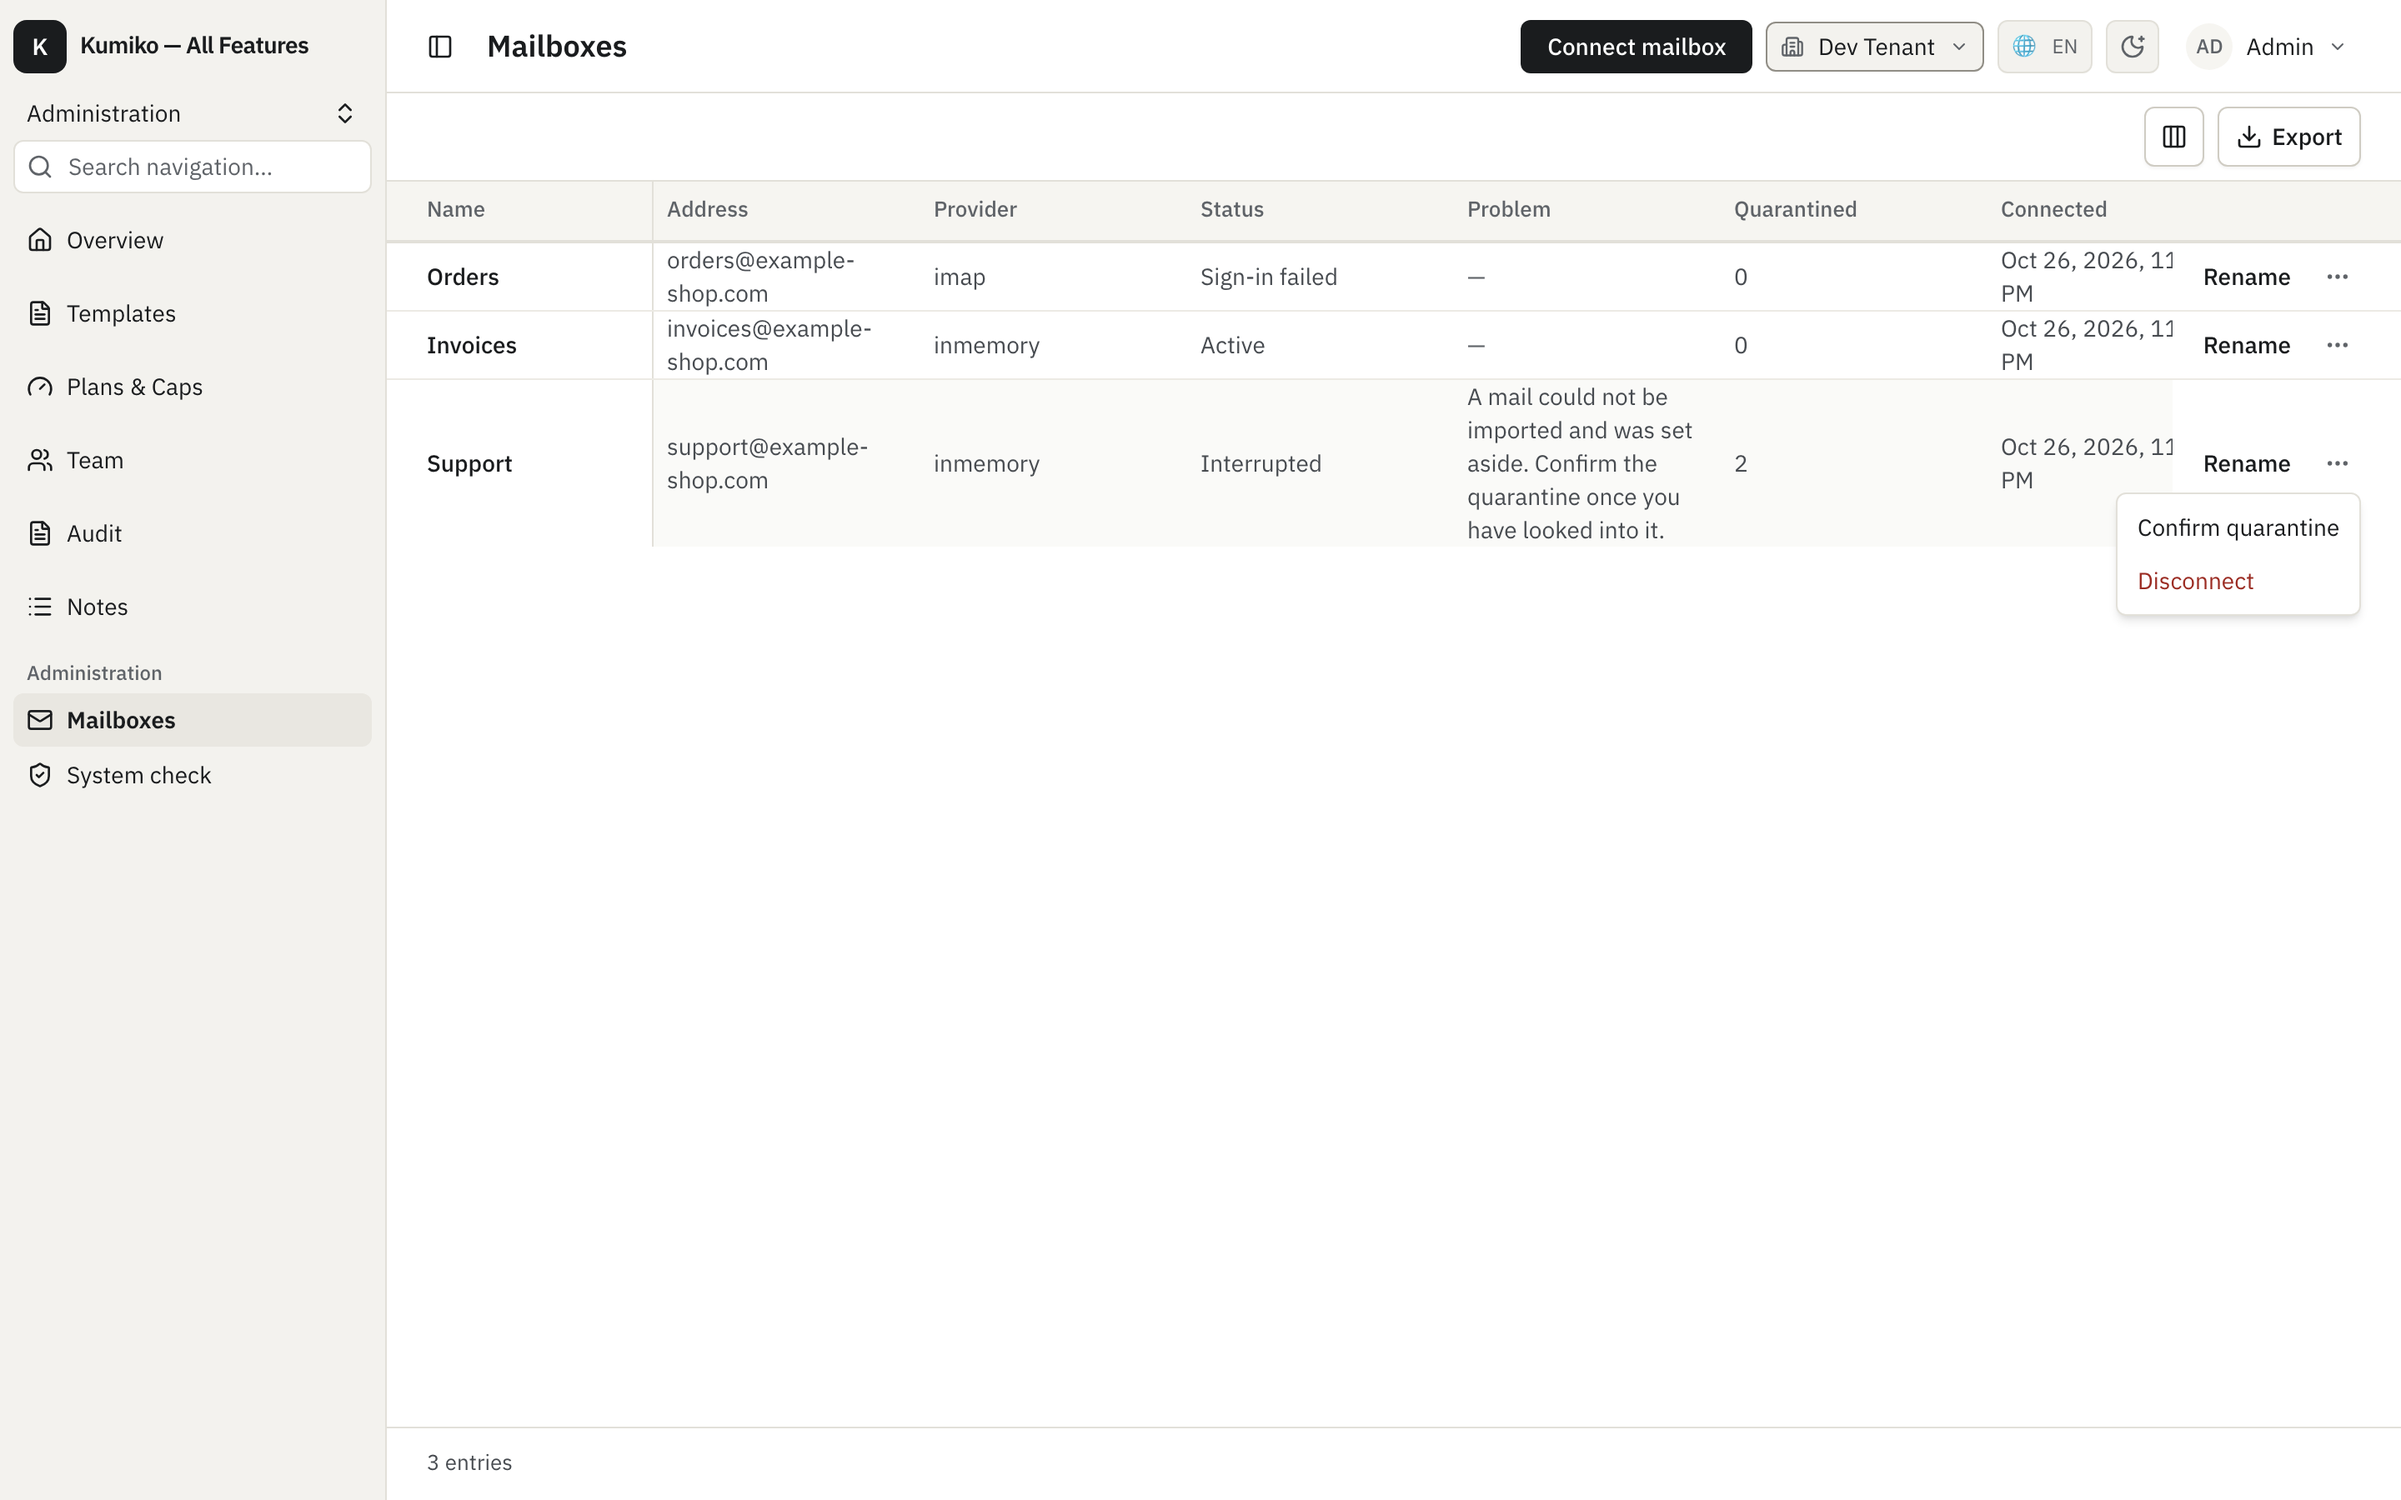
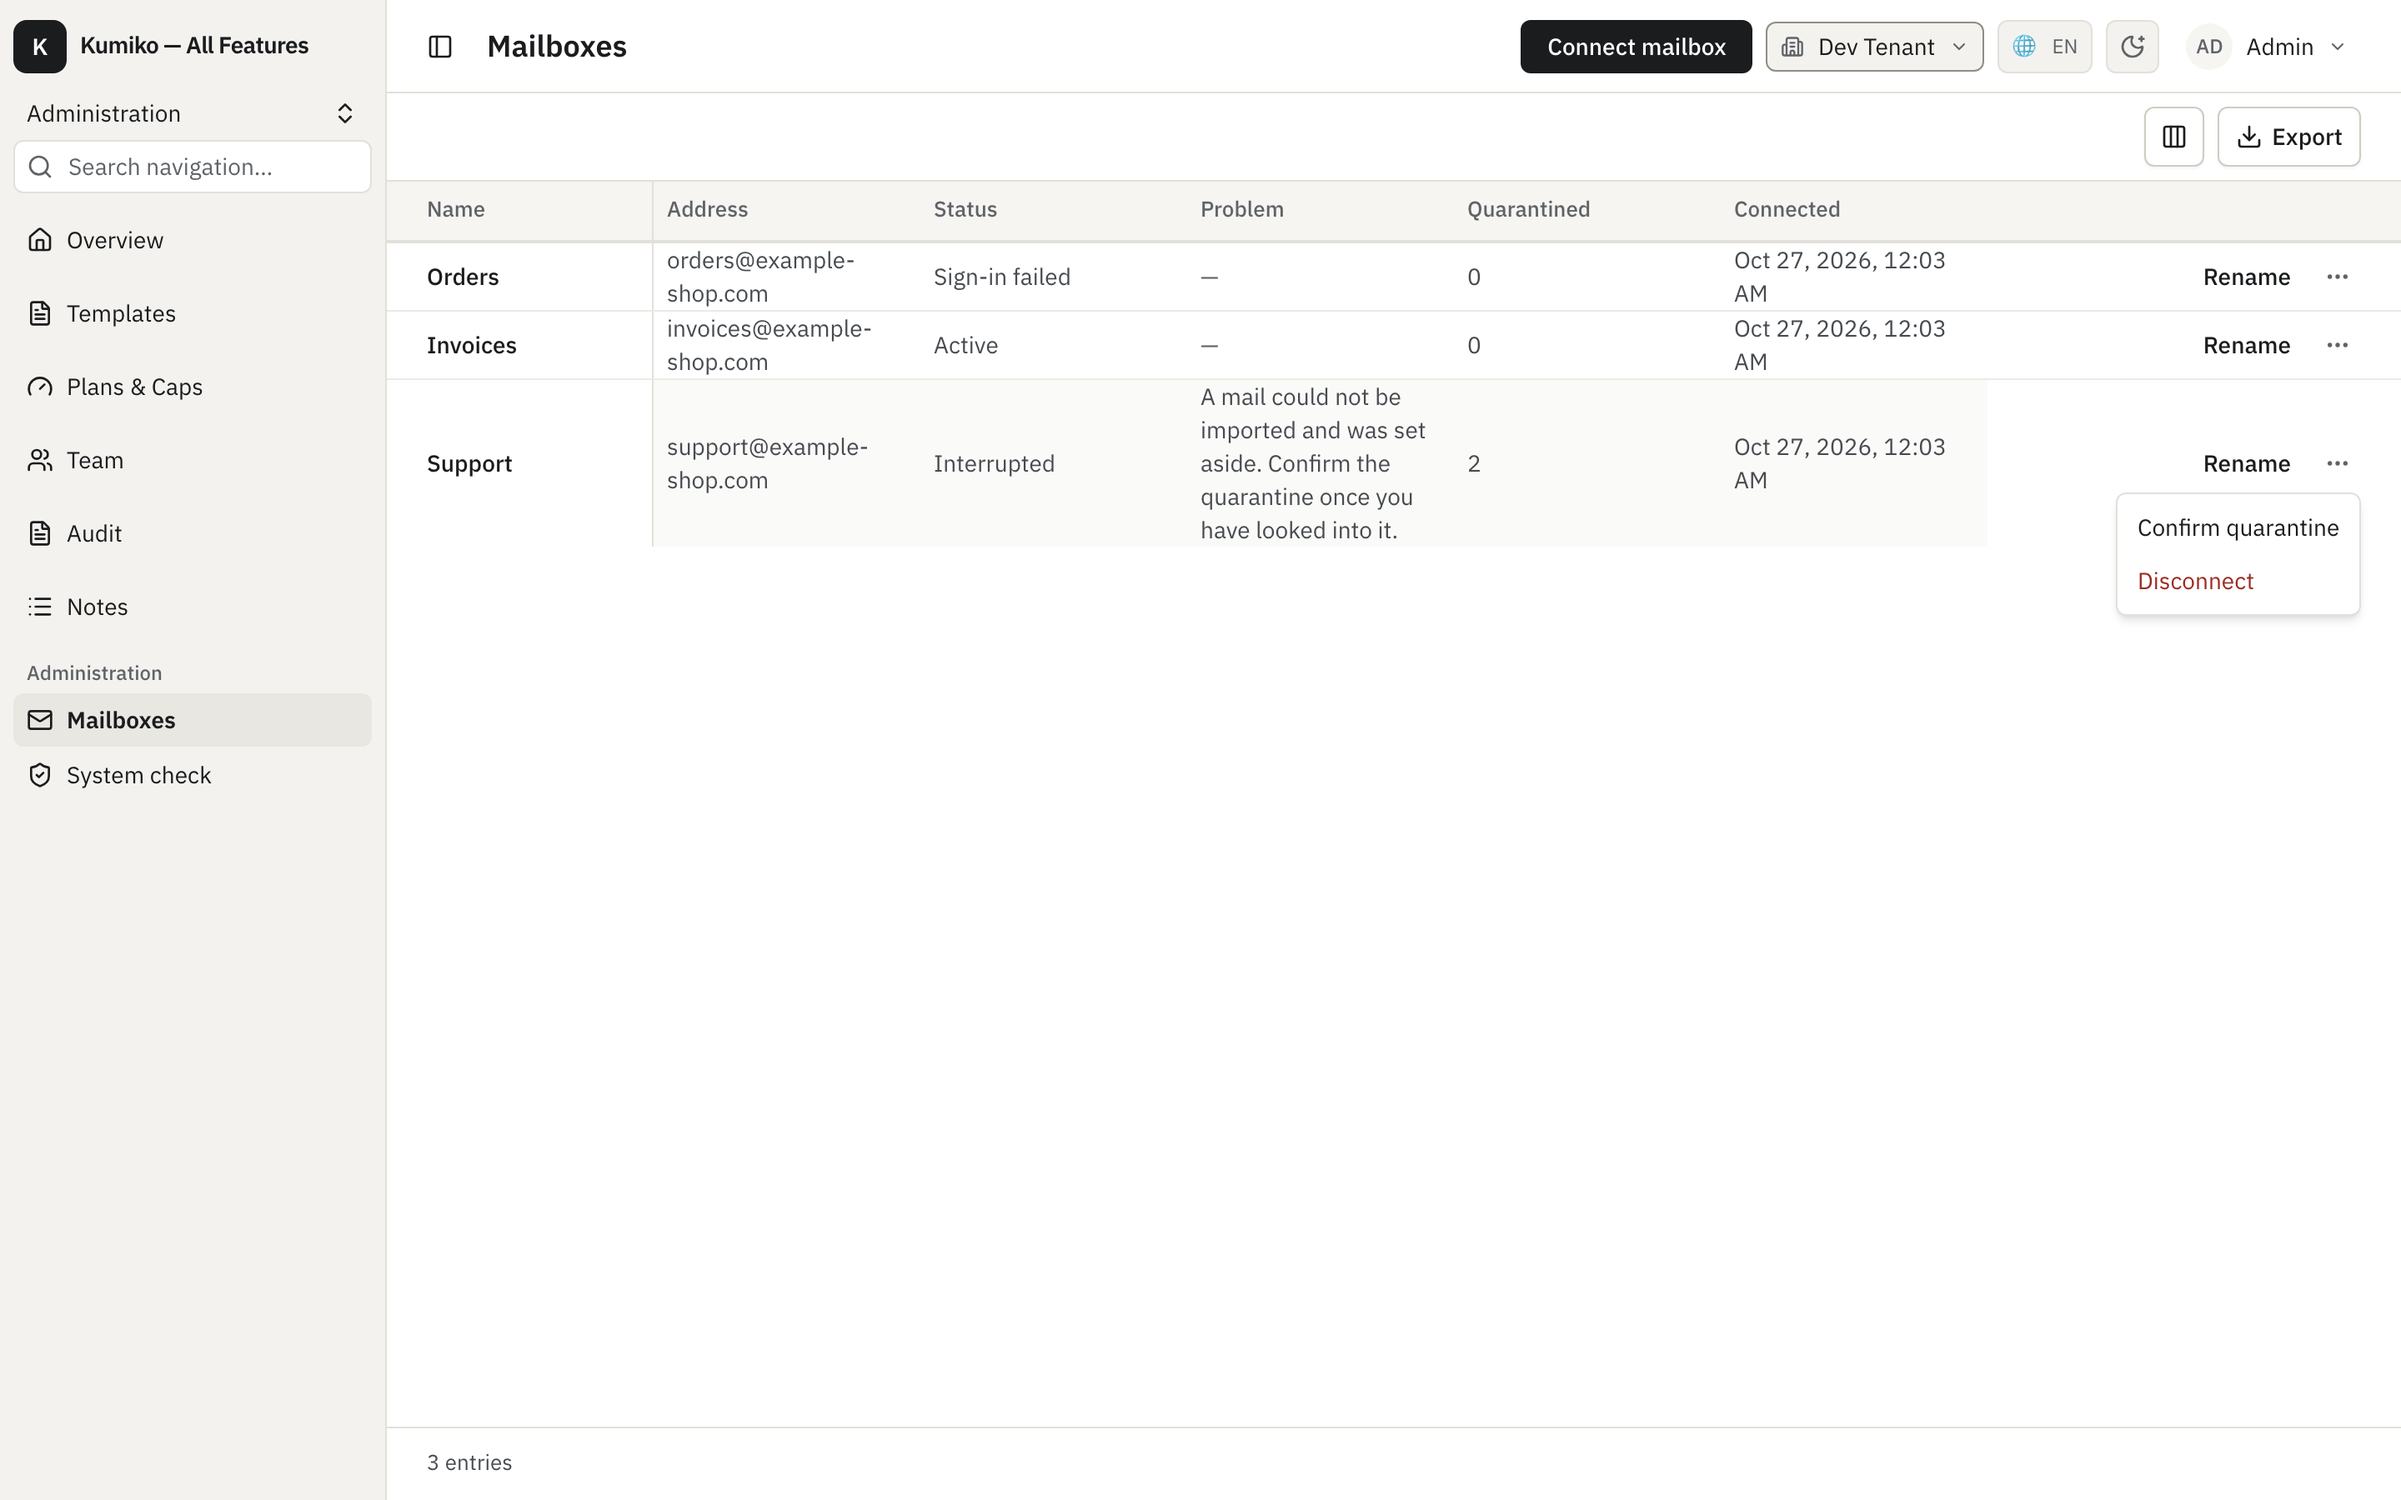
docs(screenshots): hide in-memory provider and estimate columns so the tables fit

diff --git a/samples/apps/use-all-bundled/e2e/docs-guides.screenshots.spec.ts b/samples/apps/use-all-bundled/e2e/docs-guides.screenshots.spec.ts
@@ -92,6 +92,13 @@ test("mailboxes are connected in the states the docs describe", async ({ page })
   await expect(page.getByRole("row", { name: /Invoices/ })).toContainText("Active");
   await expect(page.getByRole("row", { name: /Orders/ })).toContainText("Sign-in failed");
 
+  // Two rows run on the in-memory provider so the real supervisor can quarantine and fail them;
+  // the docs image hides that provider name, which no real installation shows.
+  await page.getByRole("button", { name: "View", exact: true }).click();
+  await page.getByRole("checkbox", { name: "Provider" }).uncheck();
+  await page.keyboard.press("Escape");
+  await expect(page.getByRole("columnheader", { name: "Provider" })).toHaveCount(0);
+
   await supportRow.getByRole("button", { name: /actions/i }).click();
   await expect(page.getByRole("menuitem", { name: "Confirm quarantine" })).toBeVisible();
   await captureScreenshot(page, "inbound-mail/accounts", { fit: "content" });

diff --git a/samples/apps/styleguide/e2e/list-table-options.screenshots.spec.ts b/samples/apps/styleguide/e2e/list-table-options.screenshots.spec.ts
@@ -55,6 +55,11 @@ test.describe("docs images", () => {
   test("bulk actions bar", async ({ page }) => {
     await page.goto("/task-board");
     await expect(page.getByText("Quarterly VAT filing")).toBeVisible();
+    // The estimate column does not fit next to the others at docs width.
+    await page.getByRole("button", { name: "View", exact: true }).click();
+    await page.getByRole("checkbox", { name: "Estimate (h)" }).uncheck();
+    await page.keyboard.press("Escape");
+    await expect(page.getByRole("columnheader", { name: "Estimate (h)" })).toHaveCount(0);
     await page.getByRole("checkbox", { name: "Select Quarterly VAT filing" }).check();
     await page.getByRole("checkbox", { name: "Select Renew office lease" }).check();
     await expect(page.getByText("2 selected")).toBeVisible();

diff --git a/docs/guides/inbound-mail.md b/docs/guides/inbound-mail.md
@@ -17,7 +17,7 @@ evidence: "packages/bundled-features/src/inbound-mail-foundation/events.ts, quar
 Each mailbox shows its state:
 
 - **Active**: mail is fetched on schedule.
-- **Sign-in failed**: the server rejected the stored login, usually after a password change. Nothing is fetched until the mailbox is reconnected.
+- **Sign-in failed**: the server rejected the stored login, usually after a password change. Nothing is fetched until the mailbox is reconnected. The Problem column stays empty here because the status already names the cause.
 - **Interrupted**: fetching works, but something needs a decision, for example mails that could not be imported. The row says which problem it is.
 
 The quarantine count shows how many mails could not be imported. "Confirm quarantine" in the row menu marks them as seen; the mailbox returns to active on its next sync.
